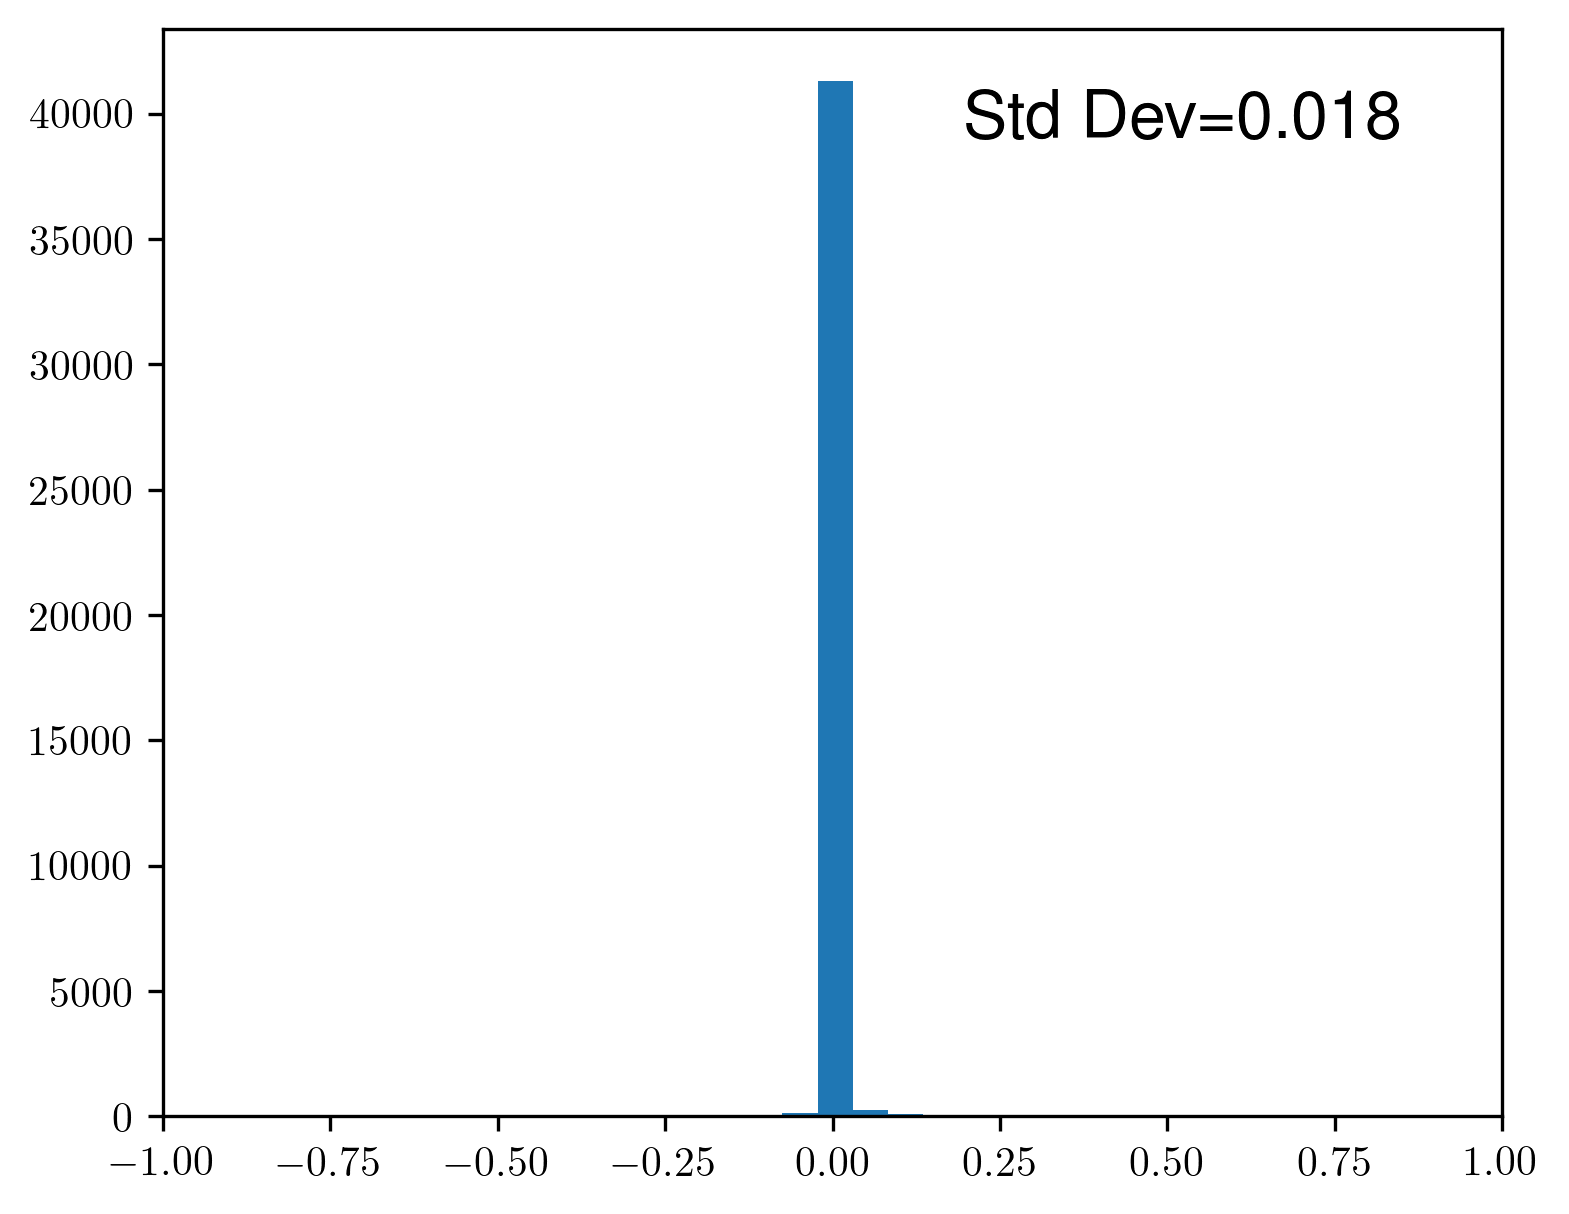
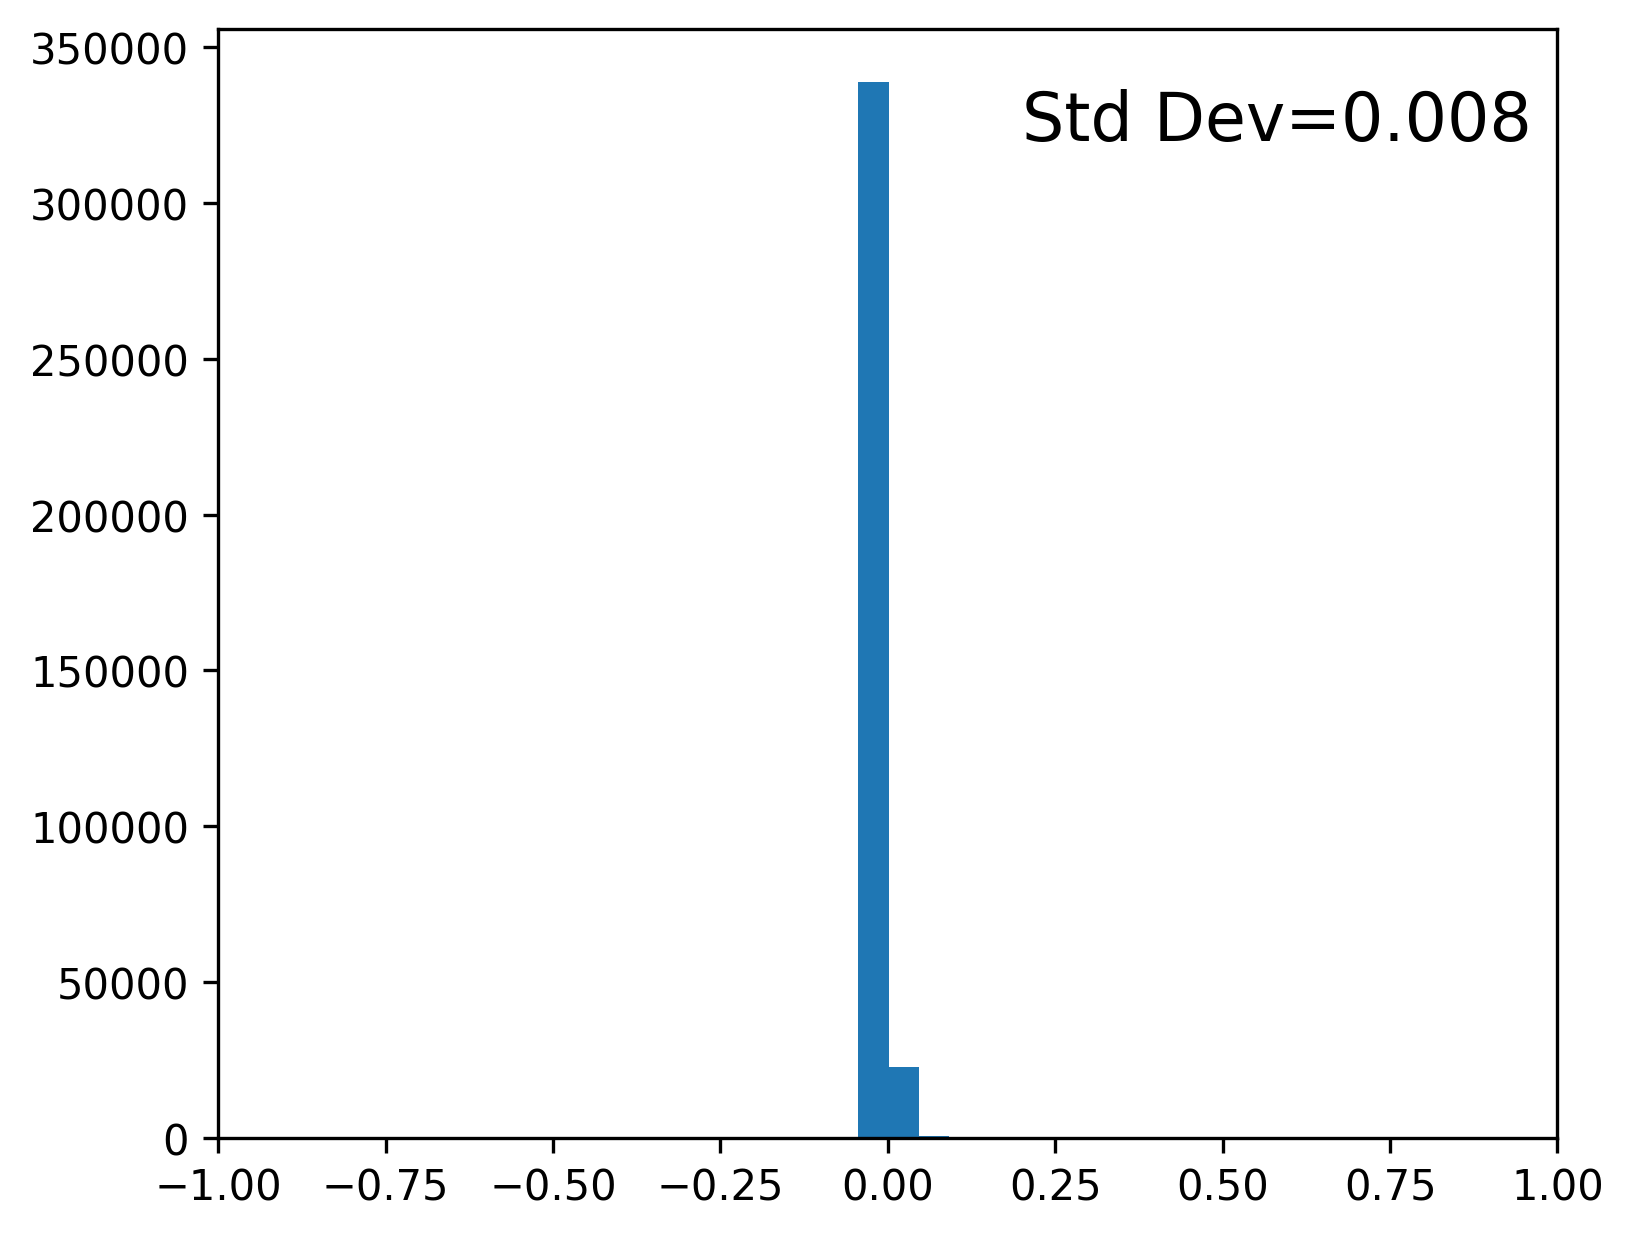
Finalize update of correlograms code
- Move correlogram.py to Modules
- Move the code that calls correlogram() to a new file called run_correlograms.py
- Update do_all to call run_correlograms.py instead of correlogram.py

Changed region(s): [[0.0, 0.0, 0.9994, 0.9753]]

diff --git a/Code/do_all.py b/Code/do_all.py
@@ -37,7 +37,7 @@ from alphas_func import compute_alphas
 from alphas_func import load_alphas
 import solve_model_functions as smf
 from occ_counts_by_type import occ_counts_by_type
-#from correlogram import correlogram
+from correlogram import correlogram
 from concentration_figures import concentration_figures
 
 
@@ -111,7 +111,6 @@ exec(open(root + 'Code/intro_figs.py').read())
 filename_stub = "panel_3states_2013to2016_new"
 # Define filenames
 if 1==1:
-    #mle_data_filename      = homedir + "/Networks/RAIS_exports/earnings_panel/" + filename_stub + "_level_" + str(level) + ".csv"
     mle_data_filename      = root + "Data/derived/earnings_panel/" + filename_stub + "_level_0.csv"
     mle_data_sums_filename = root + "Data/derived/mle_data_sums/" + filename_stub + "_mle_data_sums_" + worker_type_var + "_" + job_type_var + "_" "level_" + str(level) + ".p"
     mle_estimates_filename = root + "Data/derived/MLE_estimates/" + filename_stub + "_mle_estimates_" + worker_type_var + "_" + job_type_var + "_" "level_" + str(level) + ".p"
@@ -235,22 +234,21 @@ k = psi_and_k['k']
 #--------------------------
 
 
+# Correlograms
 if run_correlogram==True:
-    exec(open(root + 'Code/correlogram.py').read())
+    exec(open(root + 'Code/run_correlograms.py').read())
 
 
 
-
-
+# Concentration figures
 data_full = pd.read_csv(mle_data_filename)
-data_full = data_full.loc[(data_full.iota!=-1) & (data_full.gamma!=-1)]
-    
+data_full_concfigs = data_full.loc[(data_full.iota!=-1) & (data_full.gamma!=-1)]
 
-concentration_figures('iota', 'Workers (sorted by employment HHI)', ['sector_IBGE','gamma'],    {'sector_IBGE':'Sector','gamma':'Market'},                     figuredir+'concentration_figures__iota__sector_IBGE__gamma.png',weighted=True)
-concentration_figures('iota', 'Workers (sorted by employment HHI)', ['clas_cnae20','gamma'],    {'clas_cnae20':'5-Digit Industry','gamma':'Market'},           figuredir+'concentration_figures__iota__clas_cnae20__IBGE_gamma.png',weighted=True)
-concentration_figures('iota', 'Workers (sorted by employment HHI)', ['occ2Xmeso','gamma'],      {'occ2Xmeso':'Occ2 X Meso Region','gamma':'Market'},           figuredir+'concentration_figures__iota__occ2Xmeso__IBGE_gamma.png',weighted=True)
-concentration_figures('gamma', 'Markets (sorted by hiring HHI)',    ['occ2Xmeso_first','iota'], {'occ2Xmeso_first':'Occ2 X Meso Region','iota':'Worker Type'}, figuredir+'concentration_figures__gamma__occ2Xmeso_first__iota.png',weighted=True)
-concentration_figures('gamma', 'Markets (sorted by hiring HHI)',    ['occ4_first','iota'],      {'occ4_first':'4-Digit Occupation','iota':'Worker Type'},      figuredir+'concentration_figures__gamma__occ4_first__iota.png',weighted=True)
+concentration_figures(data_full_concfigs, 'iota', 'Workers (sorted by employment HHI)', ['sector_IBGE','gamma'],    {'sector_IBGE':'Sector','gamma':'Market'},                     figuredir+'concentration_figures__iota__sector_IBGE__gamma.png',weighted=True)
+concentration_figures(data_full_concfigs, 'iota', 'Workers (sorted by employment HHI)', ['clas_cnae20','gamma'],    {'clas_cnae20':'5-Digit Industry','gamma':'Market'},           figuredir+'concentration_figures__iota__clas_cnae20__IBGE_gamma.png',weighted=True)
+concentration_figures(data_full_concfigs, 'iota', 'Workers (sorted by employment HHI)', ['occ2Xmeso','gamma'],      {'occ2Xmeso':'Occ2 X Meso Region','gamma':'Market'},           figuredir+'concentration_figures__iota__occ2Xmeso__IBGE_gamma.png',weighted=True)
+concentration_figures(data_full_concfigs, 'gamma', 'Markets (sorted by hiring HHI)',    ['occ2Xmeso_first','iota'], {'occ2Xmeso_first':'Occ2 X Meso Region','iota':'Worker Type'}, figuredir+'concentration_figures__gamma__occ2Xmeso_first__iota.png',weighted=True)
+concentration_figures(data_full_concfigs, 'gamma', 'Markets (sorted by hiring HHI)',    ['occ4_first','iota'],      {'occ4_first':'4-Digit Occupation','iota':'Worker Type'},      figuredir+'concentration_figures__gamma__occ4_first__iota.png',weighted=True)
 
     
 #--------------------------

diff --git a/Code/run_correlograms.py b/Code/run_correlograms.py
@@ -1,0 +1,44 @@
+
+for idx in [('iota','gamma'), ('occ4_first_recode','sector_IBGE'), ('occ4_first_recode','gamma')]:
+    # using wtype_var and jtype_Var instead of worker_type_var and job_type_var so we don't reset the master versions set in do_all.py
+    wtype_var = idx[0]
+    jtype_var    = idx[1]
+    print(wtype_var, jtype_var)
+    mle_data_sums_corr = pickle.load(open(root + 'Data/derived/mle_data_sums/' + filename_stub + '_mle_data_sums_'+wtype_var +'_'+jtype_var+'_level_0.p', "rb"), encoding='bytes')
+    psi_hat = pickle.load(open(root+'Data/derived/MLE_estimates/' +filename_stub + '_psi_normalized_'+wtype_var +'_'+jtype_var+'_level_0_eta_2.p', "rb"), encoding='bytes')['psi_hat']
+    # Merge on mean wages by worker type and sort
+    psi_hat_merged = torch.cat((torch.reshape(mle_data_sums_corr['mean_wage_i'],(mle_data_sums_corr['mean_wage_i'].shape[0],1)), psi_hat),dim=1)
+    psi_hat_sorted = psi_hat_merged[psi_hat_merged[:, 0].sort()[1]][:,1:]
+    corr_name_stub = 'correlograms_' + wtype_var + '_' + jtype_var
+    hist_name_stub = 'correlograms_hist_' + wtype_var + '_' + jtype_var
+    correlogram(psi_hat,        figuredir+corr_name_stub + '.png'                , figuredir+hist_name_stub + '.png')
+    correlogram(psi_hat_sorted, figuredir+corr_name_stub + '_sorted.png'         , figuredir+hist_name_stub + '_sorted.png')
+    correlogram(psi_hat_sorted, figuredir+corr_name_stub + '_sorted_weighted.png', figuredir+hist_name_stub + '_sorted_weighted.png', p_ig = mle_data_sums_corr['p_ig_actual'])
+    
+  
+    
+####################################################################################
+# Extreme benchmarks
+
+# 2 clusters
+means = np.ones(50)
+diagonal    = np.random.uniform(low=.5, high=2, size=(25,25))
+offdiagonal = np.random.uniform(low=-1,  high=-.5,   size=(25,25))
+cov = np.vstack((np.hstack((diagonal,offdiagonal)), np.hstack((np.transpose(offdiagonal),diagonal))))
+psi_2_clusters = torch.tensor(np.transpose(np.random.multivariate_normal(means,cov, (50))) )
+corr_name_stub = 'correlograms_benchmark_2_clusters'
+hist_name_stub = 'correlograms_hist_benchmark_2_clusters'
+correlogram(psi_2_clusters,        figuredir+corr_name_stub + '.png'                , figuredir+hist_name_stub + '.png')
+
+# Highly correlated
+psi_1_cluster =  torch.tensor(np.transpose(np.random.multivariate_normal(np.ones(50), np.random.uniform(low=10, high=10.5, size=(50,50)), (200))) )
+corr_name_stub = 'correlograms_benchmark_1_cluster'
+hist_name_stub = 'correlograms_hist_benchmark_1_cluster'
+correlogram(psi_1_cluster,        figuredir+corr_name_stub + '.png'                , figuredir+hist_name_stub + '.png')
+
+# Uncorrelated
+psi_specific_skills = torch.tensor(np.diag(np.random.uniform(low=.5, high=2, size=(50))))
+corr_name_stub = 'correlograms_benchmark_specific_skills'
+hist_name_stub = 'correlograms_hist_benchmark_specific_skills'
+correlogram(psi_specific_skills,        figuredir+corr_name_stub + '.png'                , figuredir+hist_name_stub + '.png')
+

diff --git a/Code/Modules/correlogram.py b/Code/Modules/correlogram.py
@@ -1,0 +1,64 @@
+#!/usr/bin/env python3
+# -*- coding: utf-8 -*-
+"""
+Created on Mon May  3 08:39:29 2021
+
+@author: jfogel
+"""
+
+import torch
+import pandas as pd
+import pickle
+import numpy as np
+import seaborn as sns
+import matplotlib.pyplot as plt
+import sklearn
+import os
+
+diverging_colors = sns.color_palette("RdBu", 10)
+cmap=sns.palplot(diverging_colors)
+
+def correlogram(psi_hat, corrsavefile, histsavefile, cosine=False, p_ig=None, return_correlations=False):
+    if p_ig!=None:
+        psi_hat = psi_hat * p_ig[:,1:]
+    
+    if cosine==True:
+        corrmatrix = sklearn.metrics.pairwise.cosine_similarity(psi_hat, dense_output=True)
+    else: 
+        #psi_hat_T = pd.DataFrame(np.array(torch.transpose(psi_hat,0,1)/psi_hat.mean(dim=1)))
+        psi_hat_T = pd.DataFrame(np.array(torch.transpose(psi_hat, 0, 1)))
+        corrmatrix = psi_hat_T.corr()
+    mask = np.triu(np.ones_like(corrmatrix, dtype=bool))
+    # We are currently omitting the diagonal since it will be all ones. This alternative includes the diagonal.
+    #mask = 1-np.tril(np.ones_like(corrmatrix, dtype=bool))
+    fig, ax = plt.subplots(figsize=(5.76,4.8))         # Sample figsize in inches
+    #sns.heatmap(df1.iloc[:, 1:6:], annot=True, linewidths=.5, ax=ax)
+    sns.heatmap(
+        corrmatrix, 
+        mask = mask,
+        vmin=-1, vmax=1, center=0,
+        cmap=sns.diverging_palette(255, 15, n=500, s=100, center='light'),
+        #cmap=sns.color_palette("coolwarm", n_colors=20),
+        #cmap=sns.color_palette("RdBu", 100),
+        square=False,
+        xticklabels=False,
+        yticklabels=False,
+        ax=ax
+    )
+    #ax.set_aspect(1.2)
+    ax.tick_params(axis='both', which='major', labelsize=18)
+    ax.figure.savefig(corrsavefile, dpi=300, bbox_inches="tight")
+    #Extract unique correlations coefficients (drop diagonal and upper triangle) and plot histogram
+    a = np.tril(corrmatrix).flatten()
+    coefs = a[(a!=1) & (a!=0)]
+    coefs = np.round(coefs,8)   # Something weird is going on with rounding error in the specific skills benchmark
+    fig, ax = plt.subplots(figsize=(5.76,4.8))
+    ax.hist(coefs, density=False, bins=20)
+    ax.set_xlim(-1,1)
+    ax.text(.6, .9, r'Std Dev='+str(np.round(np.std(coefs), decimals=3)), fontsize=16, transform = ax.transAxes)
+    #ax.tick_params(axis='both', which='major', labelsize=18)
+    plt.show()    
+    ax.figure.savefig(histsavefile, dpi=300, bbox_inches="tight")
+    if return_correlations==True:
+        return coefs, corrmatrix
+
